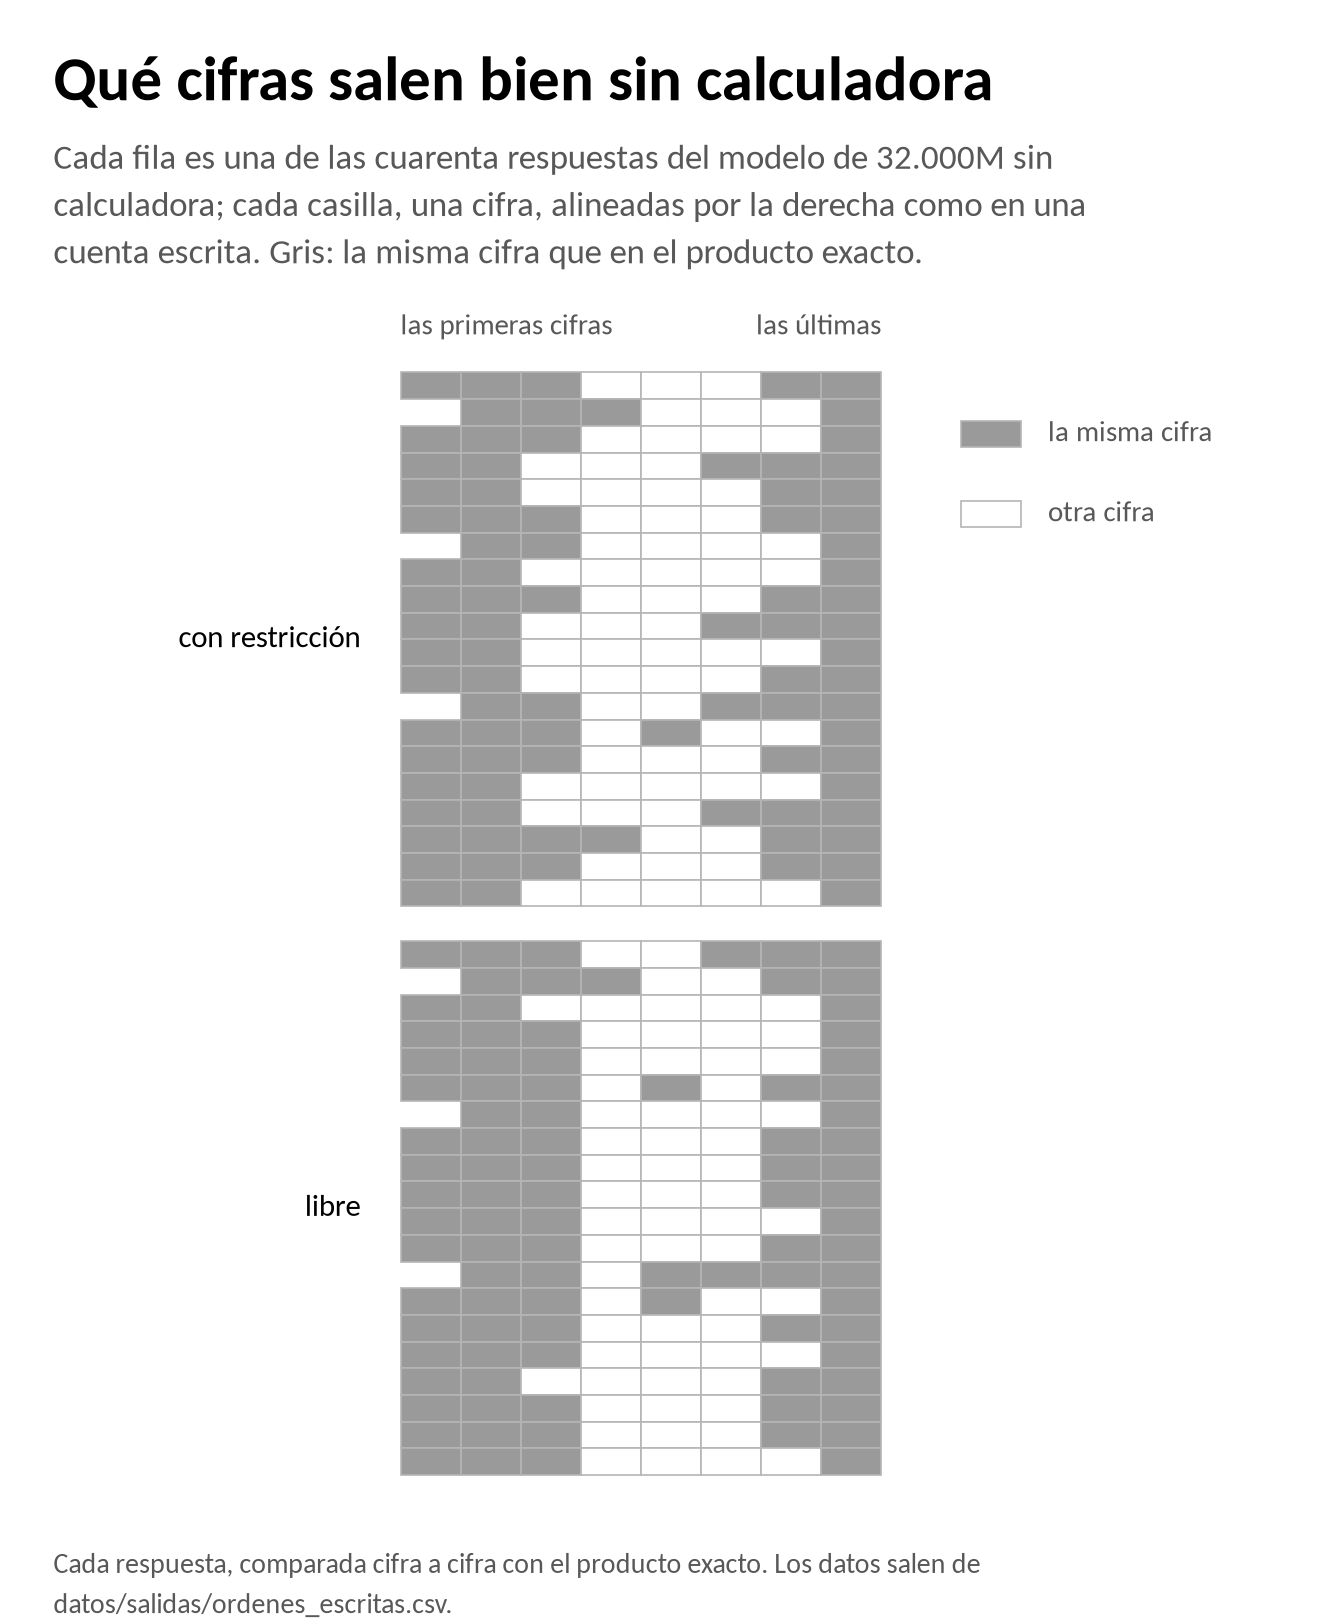
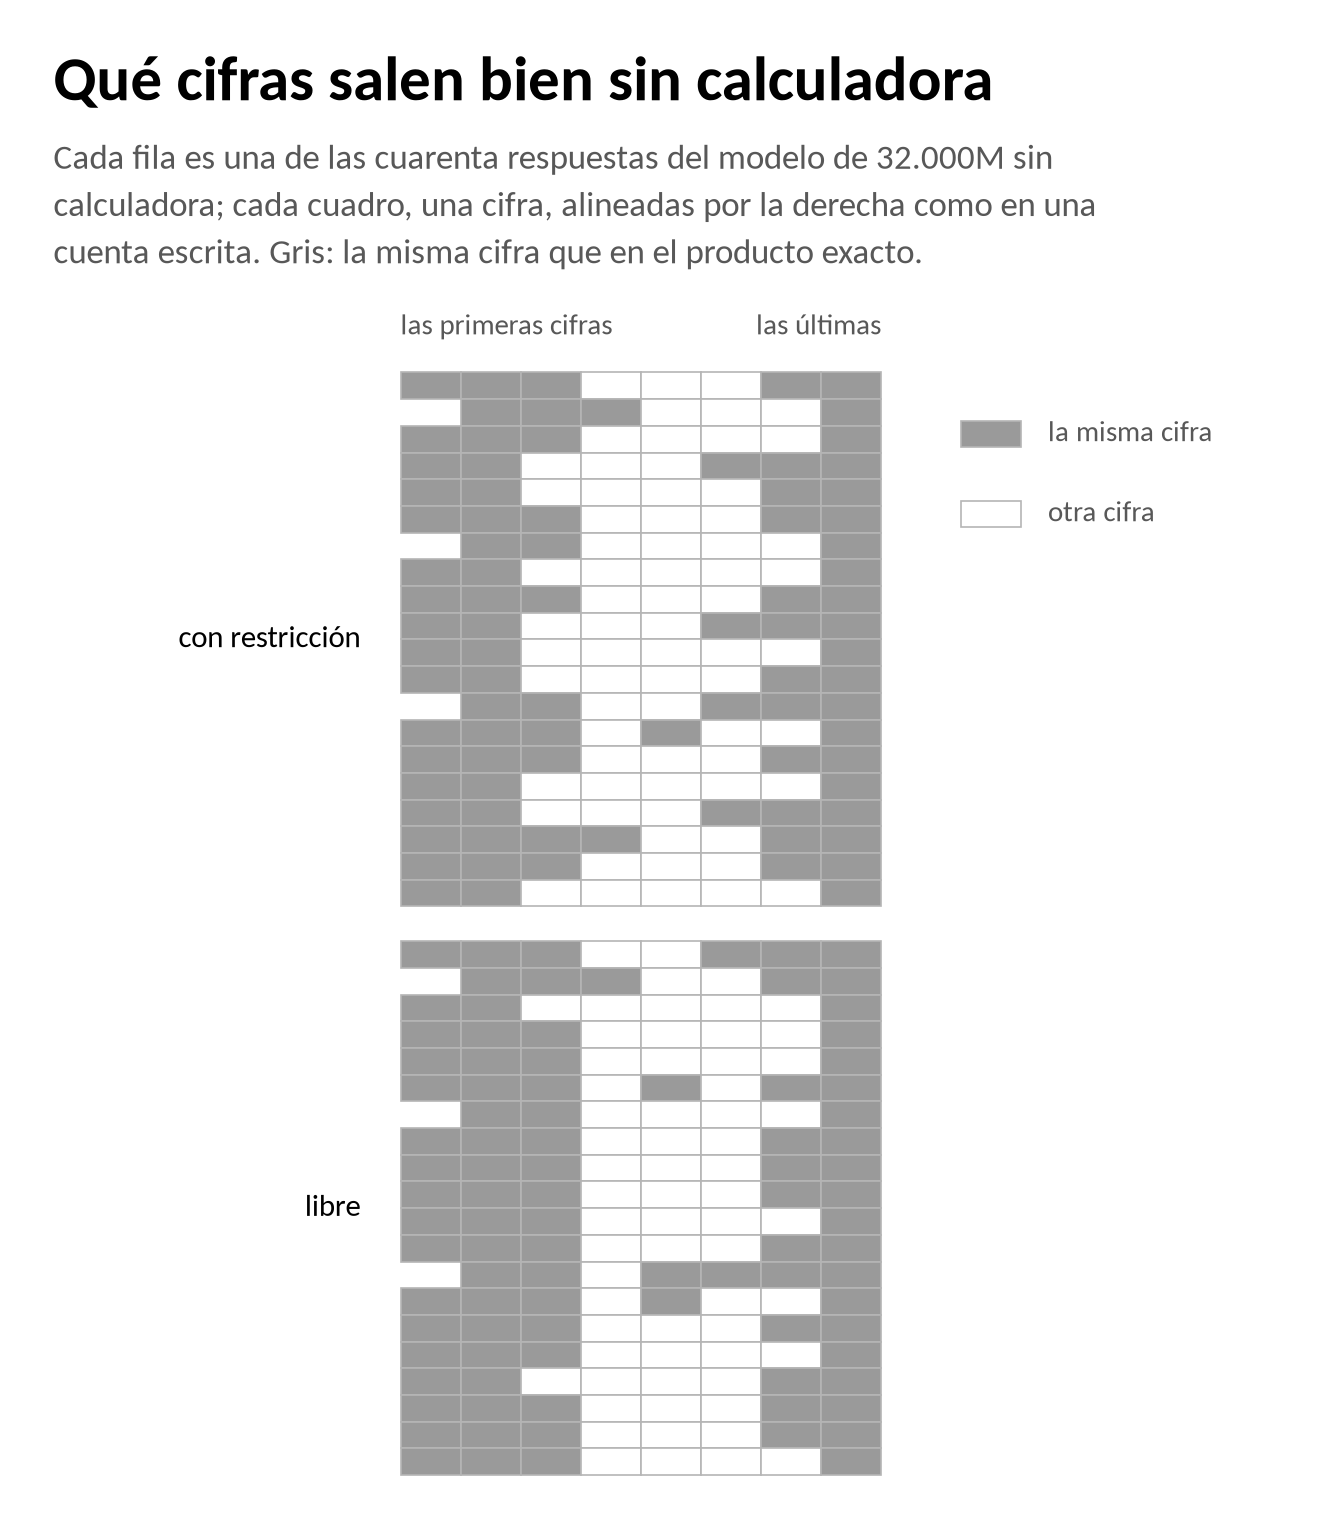
Orden 7: lo_que_mas_abunda.txt al día (50.000 pasos) y cifra_a_cifra sin pie
7.1 lo_que_mas_abunda.py: salida vuelta a generar; la fila de 52.972 pasos pasa a 50.000 pasos
(21,3 % de espacios, 3,70 letras por grupo). El rótulo de la primera sección pierde «LAS » y el
párrafo de cierre se reparte en otros tres renglones (con 62 de ancho de caja); ni una cifra más cambia.
7.2 figura_cifra_a_cifra.py: sin la procedencia al pie, alto 5,1, «cada cuadro, una cifra».
Rehecha desde ordenes_escritas.csv, sin modelo.

diff --git a/codigo/figura_cifra_a_cifra.py b/codigo/figura_cifra_a_cifra.py
@@ -3,7 +3,7 @@
 Capítulo 14 — qué cifras salen bien cuando la máquina multiplica sin calculadora.
 
 Figura de medición. Una fila por cada una de las 40 respuestas del modelo de 32.000 millones sin
-herramienta (20 con la pregunta libre y 20 con restricción), una casilla por cifra, alineadas por
+herramienta (20 con la pregunta libre y 20 con restricción), un cuadro por cifra, alineadas por
 la derecha como en una cuenta escrita. Gris: la cifra es la misma que en el producto exacto, en
 el mismo sitio. Blanco: es otra. Las respuestas de siete cifras dejan vacía la primera columna.
 
@@ -24,7 +24,7 @@ Uso (desde codigo/):
 DESTINO = "../figuras/cifra_a_cifra.png"
 TABLA = "../datos/salidas/ordenes_a_la_vista.txt"
 TITULO_TABLA = "Qué cifras salen bien sin calculadora, de izquierda a derecha (32.000M)"
-ALTO = 5.4
+ALTO = 5.1                      # pulgadas (sin el hueco del pie, Orden 7; era 5,4)
 COLUMNAS = 8                # cifras del producto más largo
 ANCHO_CASILLA = 4.5         # en unidades del lienzo (100 de ancho)
 ALTO_FILA = 2.0
@@ -74,7 +74,7 @@ def por_columna_ocho(bloques):
 def dibujar(bloques, paleta, ruta):
     L = Lienzo("Qué cifras salen bien sin calculadora",
                "Cada fila es una de las cuarenta respuestas del modelo de 32.000M sin\n"
-               "calculadora; cada casilla, una cifra, alineadas por la derecha como en una\n"
+               "calculadora; cada cuadro, una cifra, alineadas por la derecha como en una\n"
                "cuenta escrita. Gris: la misma cifra que en el producto exacto.",
                paleta, alto=ALTO)
     p, ax = L.p, L.ax
@@ -104,9 +104,8 @@ def dibujar(bloques, paleta, ruta):
         ax.add_patch(Rectangle((xc, yc - 6.0 * k - ALTO_FILA / 2), ANCHO_CASILLA, ALTO_FILA,
                                facecolor=relleno, edgecolor=p.marco, linewidth=0.4))
         L.texto(xc + ANCHO_CASILLA + 2.0, yc - 6.0 * k, s, tam=7.0, color=p.suave)
-    assert y > 8.0, f"la rejilla baja hasta {y:.1f} y pisa el pie"
-    L.pie("Cada respuesta, comparada cifra a cifra con el producto exacto. Los datos salen de\n"
-          "datos/salidas/ordenes_escritas.csv.")
+    # (Orden 7: la figura ya no lleva pie; el suelo de 8 unidades que se le dejaba pasa a 0.)
+    assert y > 0.0, f"la rejilla baja hasta {y:.1f} y se sale de la figura"
     L.guardar(ruta)
     return casillas
 

diff --git a/codigo/lo_que_mas_abunda.py b/codigo/lo_que_mas_abunda.py
@@ -281,7 +281,7 @@ def main():
         f"texto de entrenamiento: {miles(len(texto))} letras, {miles(total)} palabras,",
         f"{miles(len(veces))} distintas.",
         "",
-        "--- LAS PALABRAS QUE EL CAPÍTULO LLAMA «LAS MÁS FRECUENTES» ---",
+        "--- PALABRAS QUE EL CAPÍTULO LLAMA «LAS MÁS FRECUENTES» ---",
         "",
     ]
     for l in comprobar_ancho(cabecera, ANCHO_CAJA_CITA):
@@ -318,9 +318,9 @@ def main():
             *[f"    de {n} letra{'s' if n > 1 else ''}: {miles(len(cache[n][0]))}"
               for n in sorted(cache)],
             "",
-            "El modelo no ve palabras: ve letras, una detrás de otra. Así que",
-            "ésta es la lista que le importa y no la de arriba, y es la que",
-            "explica por qué sale «ten» sin ser una palabra frecuente.",
+            "El modelo no ve palabras: ve letras, una detrás de otra. Así",
+            "que ésta es la lista que le importa y no la de arriba, y es la",
+            "que explica por qué sale «ten» sin ser una palabra frecuente.",
             ""], ANCHO_CAJA_CITA):
         print(l)
 
